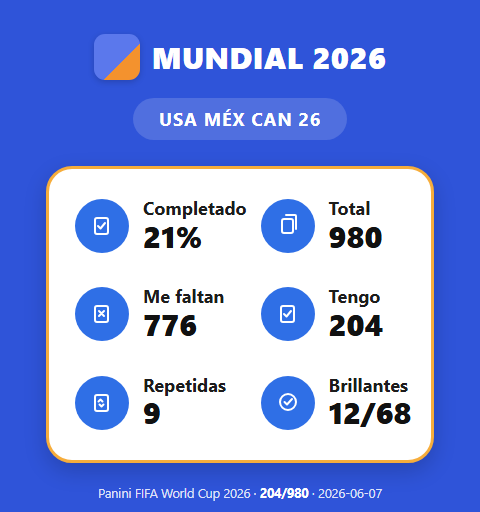
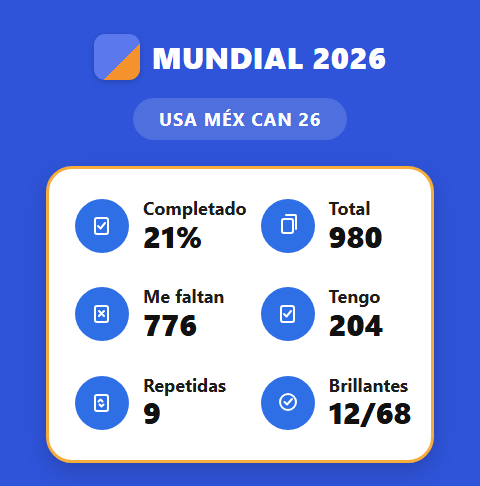
Tarjeta compartible: quita footer (titulo MUNDIAL 2026)

diff --git a/dashboard_share.html b/dashboard_share.html
@@ -25,5 +25,4 @@
   <div class="brand"><span class="logo"></span><span class="word">MUNDIAL 2026</span></div>
   <span class="pill">USA MÉX CAN 26</span>
   <div class="panel"><div class="grid"><div class="tile"><span class="circ"><svg viewBox="0 0 26 28" fill="none" stroke="#fff" stroke-width="2" stroke-linecap="round" stroke-linejoin="round"><rect x="6" y="6" width="13" height="16" rx="2"/><path d="M9 14l2.5 2.5L16 11"/></svg></span><div class="txt"><div class="lbl">Completado</div><div class="val">21%</div></div></div><div class="tile"><span class="circ"><svg viewBox="0 0 26 28" fill="none" stroke="#fff" stroke-width="2" stroke-linecap="round" stroke-linejoin="round"><rect x="7" y="7" width="11" height="14" rx="2"/><path d="M11 3h9a1 1 0 0 1 1 1v13"/></svg></span><div class="txt"><div class="lbl">Total</div><div class="val">980</div></div></div><div class="tile"><span class="circ"><svg viewBox="0 0 26 28" fill="none" stroke="#fff" stroke-width="2" stroke-linecap="round" stroke-linejoin="round"><rect x="6" y="6" width="13" height="16" rx="2"/><path d="M10 11l5 5M15 11l-5 5"/></svg></span><div class="txt"><div class="lbl">Me faltan</div><div class="val">776</div></div></div><div class="tile"><span class="circ"><svg viewBox="0 0 26 28" fill="none" stroke="#fff" stroke-width="2" stroke-linecap="round" stroke-linejoin="round"><rect x="6" y="6" width="13" height="16" rx="2"/><path d="M9 14l2.5 2.5L16 11"/></svg></span><div class="txt"><div class="lbl">Tengo</div><div class="val">204</div></div></div><div class="tile"><span class="circ"><svg viewBox="0 0 26 28" fill="none" stroke="#fff" stroke-width="2" stroke-linecap="round" stroke-linejoin="round"><rect x="6" y="6" width="13" height="16" rx="2"/><path d="M9.5 12.5l2-2 2 2M14.5 15.5l-2 2-2-2"/></svg></span><div class="txt"><div class="lbl">Repetidas</div><div class="val">9</div></div></div><div class="tile"><span class="circ"><svg viewBox="0 0 26 28" fill="none" stroke="#fff" stroke-width="2" stroke-linecap="round" stroke-linejoin="round"><circle cx="13" cy="13" r="8"/><path d="M9.5 13l2.5 2.5L17 10"/></svg></span><div class="txt"><div class="lbl">Brillantes</div><div class="val">12/68</div></div></div></div></div>
-  <div class="foot">Panini FIFA World Cup 2026 · <b>204/980</b> · 2026-06-07</div>
 </div></body></html>

diff --git a/gen_dashboard.py b/gen_dashboard.py
@@ -93,7 +93,6 @@ def render(d):
   <div class="brand"><span class="logo"></span><span class="word">MUNDIAL 2026</span></div>
   <span class="pill">{COLECCION}</span>
   <div class="panel"><div class="grid">{grid}</div></div>
-  <div class="foot">Panini FIFA World Cup 2026 · <b>{d['tengo']}/{d['total']}</b> · {FECHA}</div>
 </div></body></html>"""
 
 